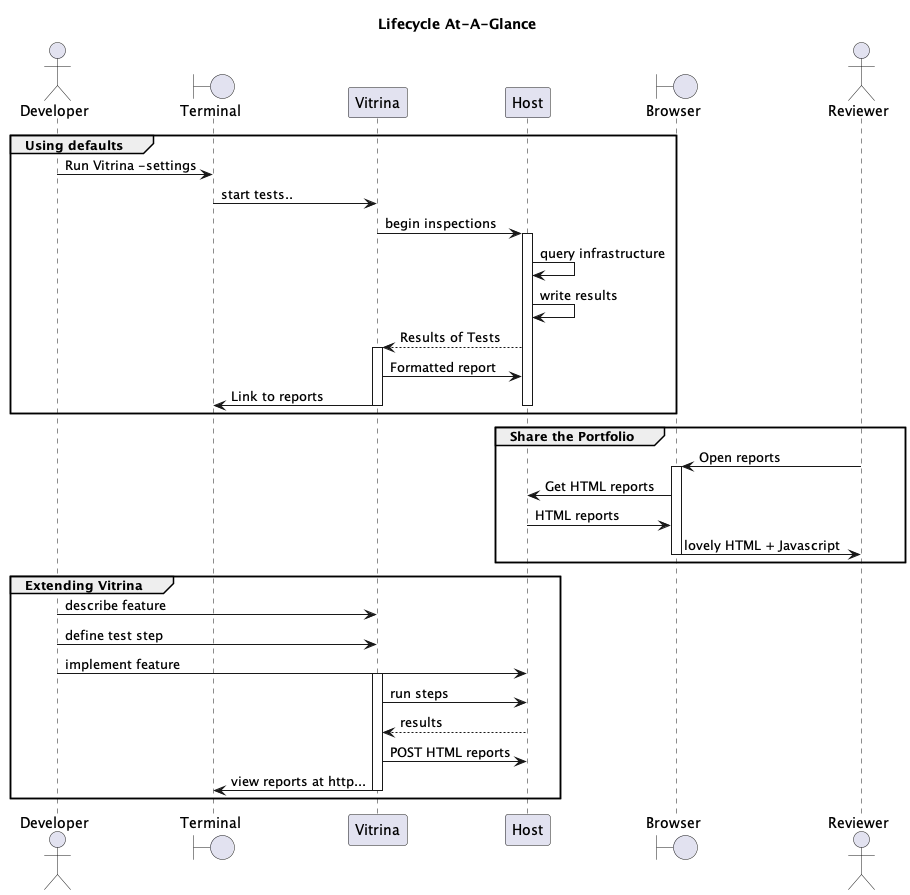
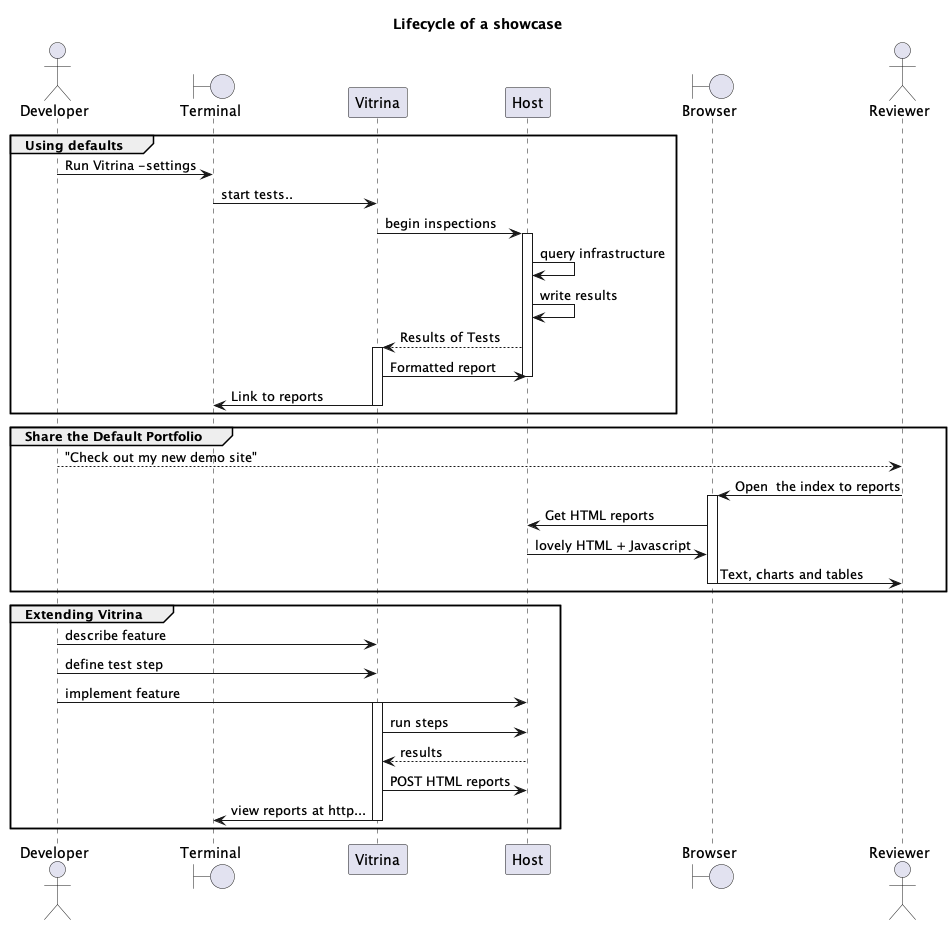
Fix the diagrams and add a draft ADR.

diff --git a/docs/source/decisions/index.rst b/docs/source/decisions/index.rst
@@ -1,0 +1,15 @@
+===============================
+Architechtural Decision records
+===============================
+
+
+An architectural decision record (:term:`ADR`) is a set of facts describing the items we take into consideration when we choose to do one thing and not another.
+Just as linking the requirement (``feature``) to the implementation (``steps``) is an evolutionary process, so is noting when we make a decision.
+I wonder if there is a way to associate scenarios (or other objects) with decision records
+
+
+.. toctree::
+    :titles-only:
+    :glob:
+
+
